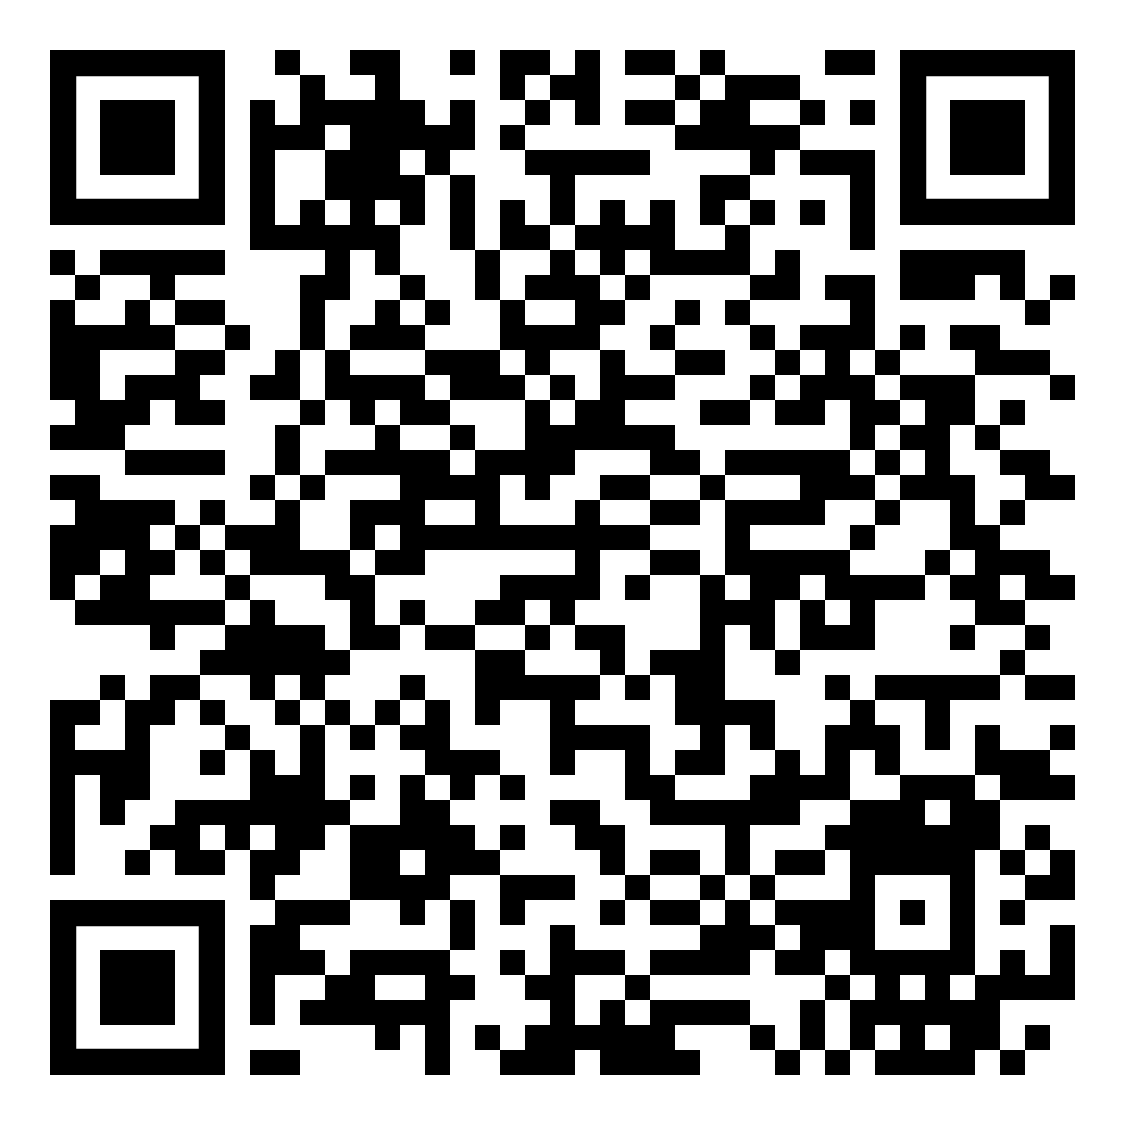
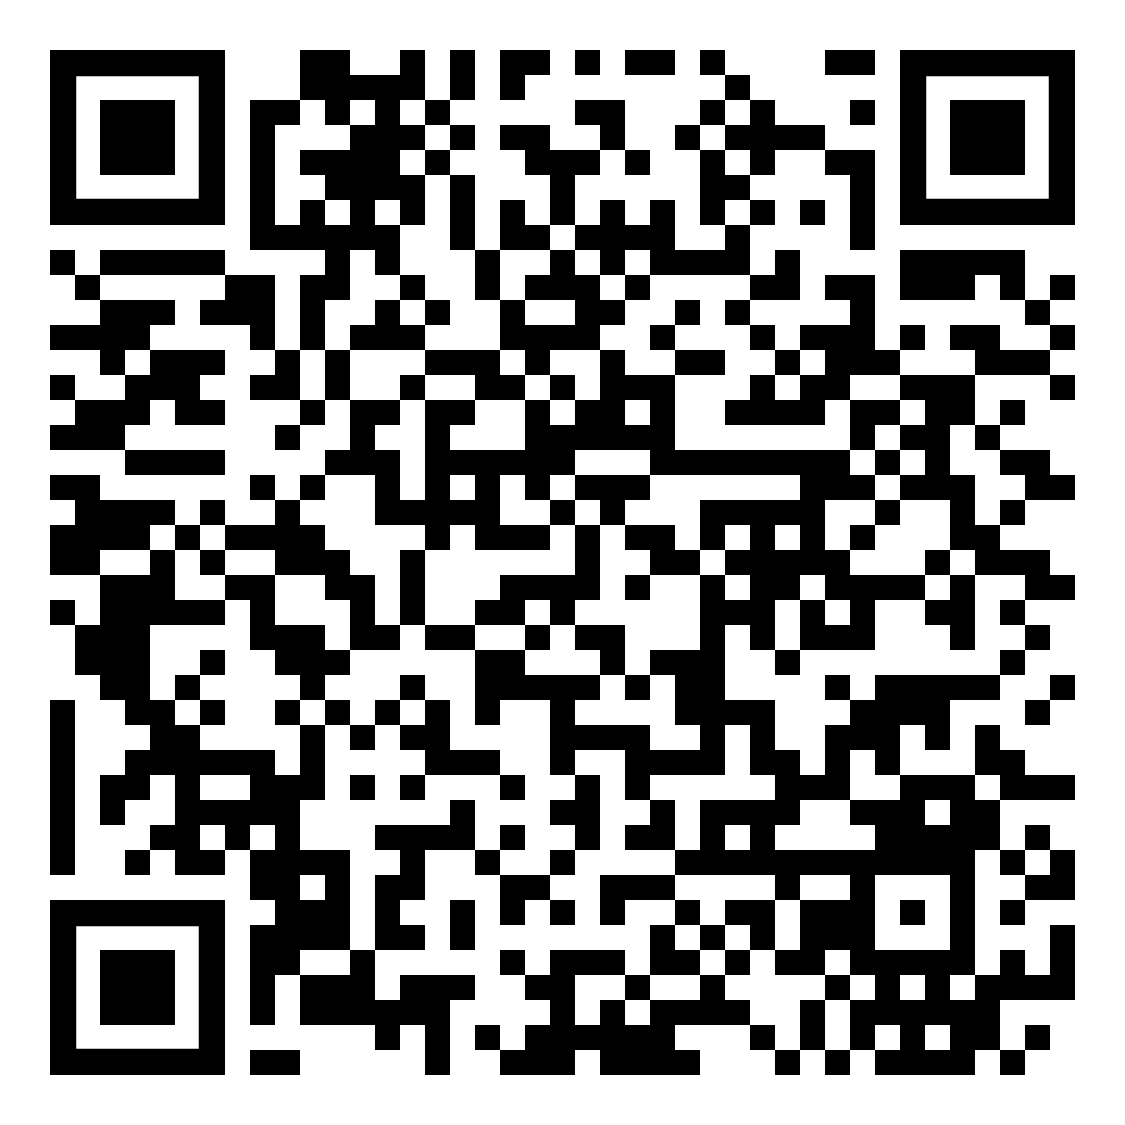
wala

diff --git a/resources/views/welcome.blade.php b/resources/views/welcome.blade.php
@@ -113,7 +113,7 @@
 
     // Mobile app installer (Expo / EAS internal distribution)
     $appQr   = 'images/qr-gvcfi.png';        // QR image: public/images/gvcfi-qr.png
-    $appUrl  = 'https://expo.dev/accounts/abidmangelen/projects/scholarr/builds/4a1464fc-9df3-4ca7-b747-fc21bcb3d309';  // Expo install page (same link as the QR)
+    $appUrl  = 'https://expo.dev/accounts/abidmangelen/projects/scholarr/builds/7760ea3e-0138-4e32-a789-52873a532b3f';  // Expo install page (same link as the QR)
     $apkPath = 'downloads/gvcfi-app.apk';  // fallback: upload your APK to public/downloads/gvcfi-app.apk and leave $appUrl empty
 
     $downloadUrl = $appUrl ?: (file_exists(public_path($apkPath)) ? asset($apkPath) : null);
